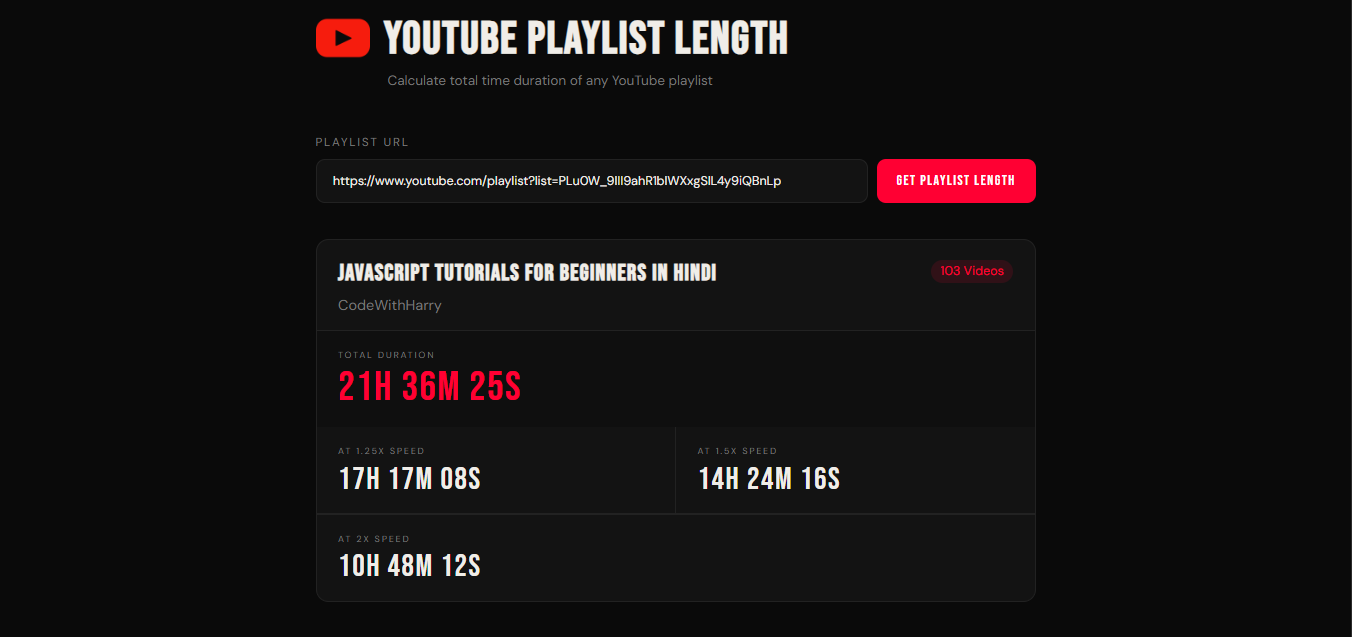
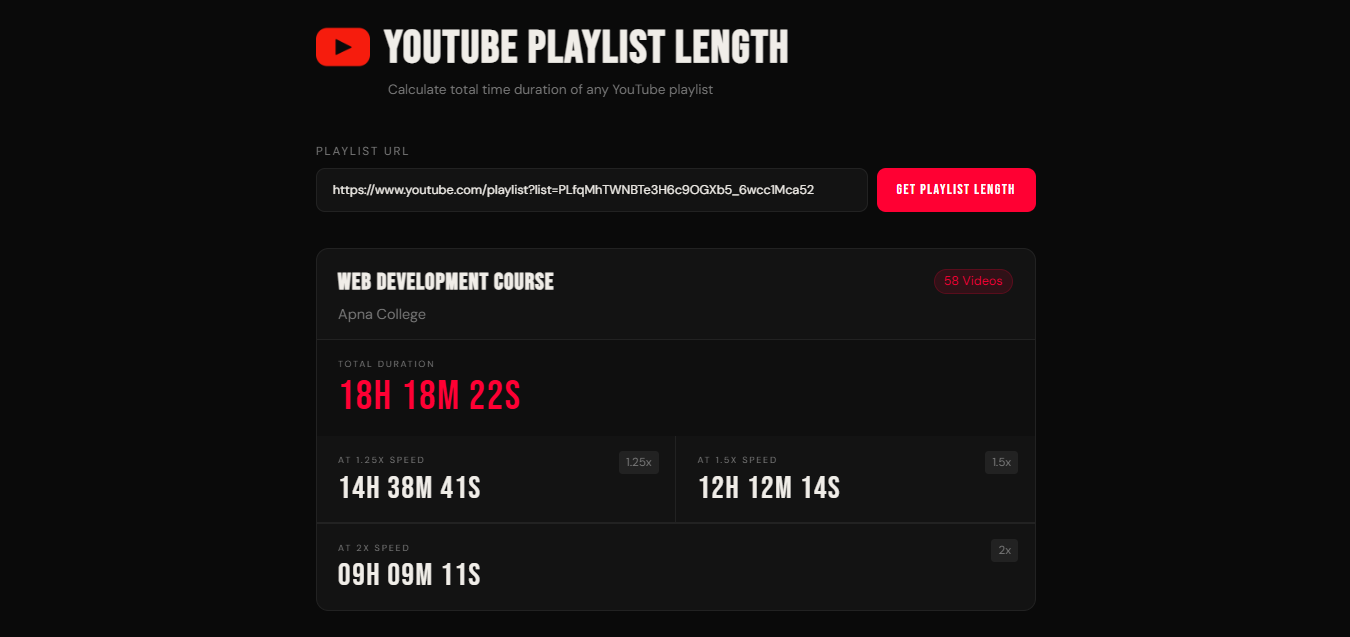
improve UI: add speed badge on duration grid and button loading bounce animation with help of youtube video no learn from youtube video

diff --git a/script.js b/script.js
@@ -29,7 +29,7 @@ enterBtn.addEventListener("click", ()=>{
     informationBox.innerHTML = "";
 
     if (urlInput === "") {
-        errorMsg.textContent = "Please enter YouTube playlist URL.";
+        errorMsg.textContent = "! Please enter YouTube playlist URL.";
         errorMsg.style.display = "block";
         return;
     }
@@ -40,15 +40,24 @@ enterBtn.addEventListener("click", ()=>{
         playlistId = url.searchParams.get("list")
         
         if (!playlistId) {
-            errorMsg.textContent = "Invalid Playlist URL";
+            errorMsg.textContent = "! Invalid Playlist URL";
             errorMsg.style.display = "block";
             return;
         }
     } catch {
-        errorMsg.textContent = "Enter a valid URL";
+        errorMsg.textContent = "! Enter a valid URL";
         errorMsg.style.display = "block";
         return
     }
+
+    enterBtn.classList.add("loading");
+    enterBtn.innerHTML = `
+    <span class="dots">
+        <span></span>
+        <span></span>
+        <span></span>
+    </span>
+    `;
     // console.log("Youtube Playlist Id ===> ", playlistId)
 
     fetch(`https://www.googleapis.com/youtube/v3/playlists?part=snippet,contentDetails&id=${playlistId}&key=${apiKey}`)
@@ -57,8 +66,10 @@ enterBtn.addEventListener("click", ()=>{
             console.log("playlist data result ===>",playlistData);
 
             if (!playlistData.items || playlistData.items.length === 0) {
-                errorMsg.textContent = "Playlist not found";
+                errorMsg.textContent = "! Playlist not found";
                 errorMsg.style.display = "block";
+                enterBtn.classList.remove("loading");
+                enterBtn.textContent = "Get Playlist length";
                 return;
             }
 
@@ -138,20 +149,26 @@ enterBtn.addEventListener("click", ()=>{
                                                 <p class="grid-time">${readableTime(totalSec)}</p>
                                             </div>
                                             <div class="duration-grid">
+                                                <p class="speed-badge">1.25x</p>
                                                 <p class="grid-label">At 1.25x Speed</p>
                                                 <p class="grid-time">${speed125x}</p>
                                             </div>
                                             <div class="duration-grid">
+                                                <p class="speed-badge">1.5x</p>
                                                 <p class="grid-label">At 1.5x Speed</p>
                                                 <p class="grid-time">${speed150x}</p>
                                             </div>
                                             <div class="duration-grid end">
+                                                <p class="speed-badge">2x</p>
                                                 <p class="grid-label">At 2x Speed</p>
                                                 <p class="grid-time">${speed2x}</p>
                                             </div>
                                         </div>
                                     </div>
                                     `;
+
+                                    enterBtn.classList.remove("loading");
+                                    enterBtn.textContent = "Get Playlist length";
                             }
 
                             calculatePlaylistDuration();
@@ -161,15 +178,18 @@ enterBtn.addEventListener("click", ()=>{
                     })
                     .catch((error)=>{
                         console.log("error ===>", error);
-                        
+                        enterBtn.classList.remove("loading");
+                        enterBtn.textContent = "Get Playlist length";
                     })
             }
 
         })  
         .catch((error) =>{
                     console.log("error ===>", error);
-                    errorMsg.textContent = "Something went wrong";
+                    errorMsg.textContent = "! Something went wrong";
                     errorMsg.style.display = "block";
+                    enterBtn.classList.remove("loading");
+                    enterBtn.textContent = "Get Playlist length";
         })          
                     
                             

diff --git a/style.css b/style.css
@@ -120,6 +120,33 @@ header{
     transform: translateY(0);
 }
 
+#enter-btn.loading{
+    pointer-events: none;
+    background: #333;
+    color: #666;
+}
+
+.dots{
+    display: flex;
+    gap: 4px;
+}
+
+.dots span{
+    width: 5px;
+    height: 5px;
+    border-radius: 50%;
+    background: #666;
+    animation: bounce 1s infinite;
+}
+
+.dots span:nth-child(2){
+    animation-delay: 0.15s;
+}
+
+.dots span:nth-child(3){
+    animation-delay: 0.3s;
+}
+
 #error-msg{
     color: #ec4242;
     display: none;
@@ -180,6 +207,7 @@ header{
 .duration-grid{
     background: var(--card);
     padding: 20px 24px;
+    position: relative;
 }
 
 .duration-grid:hover{
@@ -193,6 +221,24 @@ header{
 
 .duration-grid.main:hover{
     background: #121212;
+}
+
+.speed-badge{
+    position: absolute;
+    top: 16px;
+    right: 18px;
+    background: var(--border);
+    color: var(--muted);
+    font-size: 13px;
+    font-weight: 500;
+    padding: 4px 8px;
+    border-radius: 4px;
+    font-family: 'DM Sans', monospace;
+}
+
+.duration-grid:hover .speed-badge{
+    background: rgba(255,0,51,0.15);
+    color: var(--red);
 }
 
 .grid-label{
@@ -244,6 +290,15 @@ header{
     }
 }
 
+@keyframes bounce{
+    0%, 60%, 100%{
+        transform: translateY(0);
+    }
+
+    30%{
+        transform: translateY(-6px);
+    }
+}
 
 @media (max-width: 480px) {
     .duration{

diff --git a/index.html b/index.html
@@ -25,7 +25,7 @@
                 <input type="url" id="playlist-url" placeholder="https://www.youtube.com/playlist?list=...">
                 <button id="enter-btn">Get Playlist length</button>
             </div>
-            <p id="error-msg">Please enter a valid YouTube playlist URL.</p>
+            <p id="error-msg"></p>
         </div>
 
         <div id="result"></div>

diff --git a/README.md b/README.md
@@ -34,7 +34,7 @@ Users just need to enter the playlist URL, and the app gets all the video times 
 ![Youtube Playlist length Screenshot](images/Screenshot.png)
 
 ## Future Improvements
-* <!-- Add error handling for invalid playlist URLs. --> done -->
+* <!-- Add error handling for invalid playlist URLs. --> done
 * Allow multiple playlists calculation at once.
 * Include dark/light theme toggle.
 * Improve loading indicators while fetching videos.
